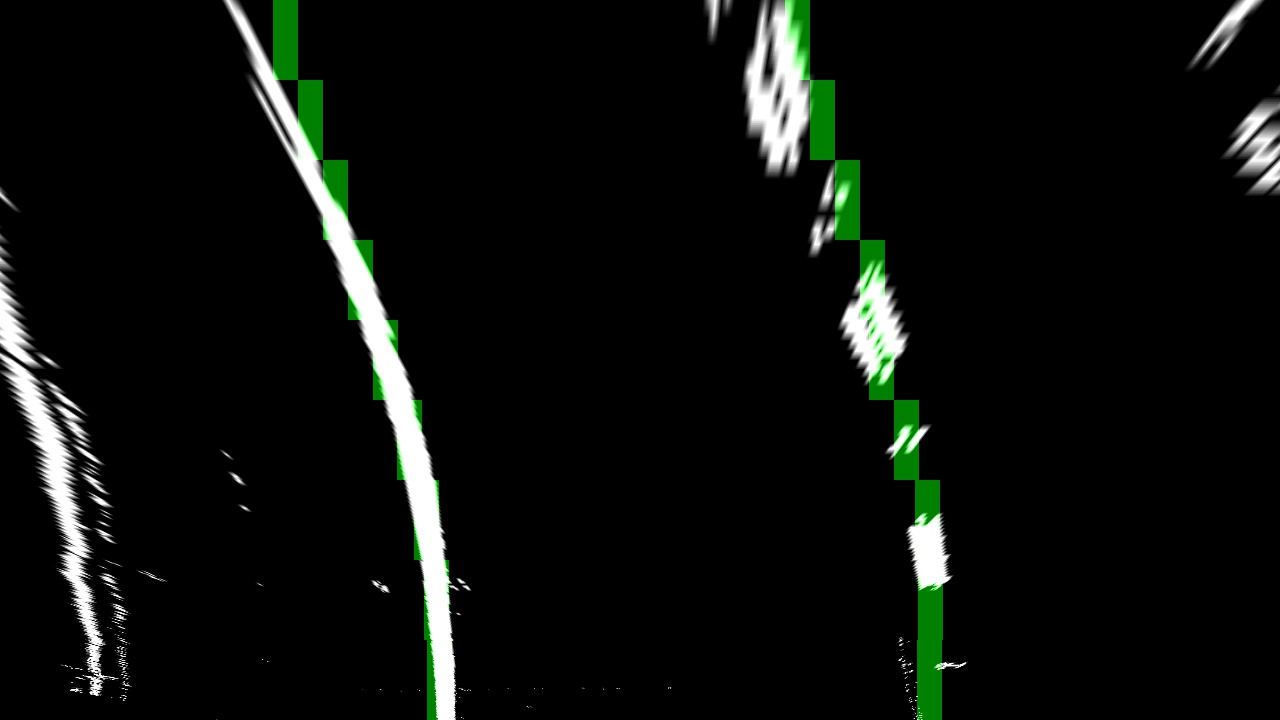
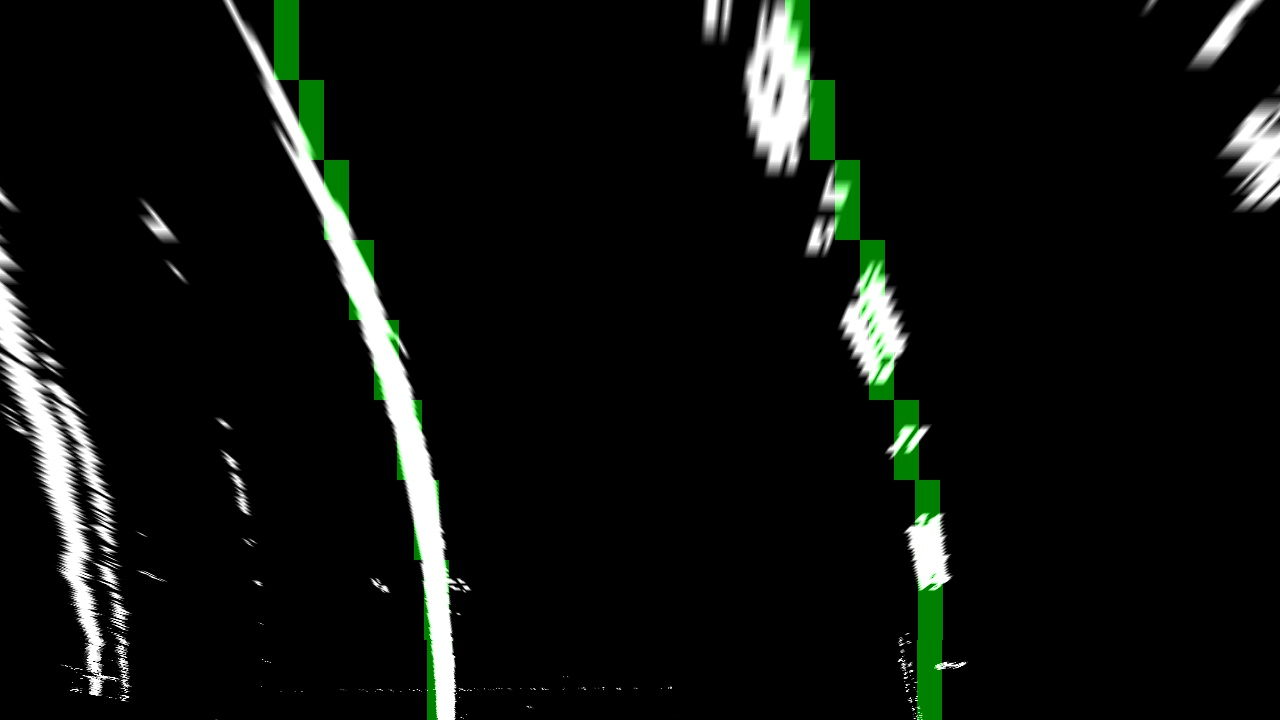
wip

diff --git a/source/thresholds.py b/source/thresholds.py
@@ -54,7 +54,7 @@ def threshold_pipeline(image):
     gradient_y = gradient(image, orient='y', thresholds=(25, 255))
     magnitude = magnitude_of_gradient(image, thresholds=(30, 100))
     direction = direction_of_gradient(image, 15, (0.7, 1.3))
-    color = color_threshold(image, (130, 255), (50, 255))
+    color = color_threshold(image, (140, 255), (50, 255))
     combined_thresholds = numpy.zeros_like(image[:, :, 0])
     gradient_hits = (gradient_x == 1) & (gradient_y == 1)
     # magnitude_direction = (magnitude == 1) & (direction == 1)

diff --git a/source/processor.py b/source/processor.py
@@ -23,5 +23,7 @@ def process_image(image):
     curve_centers = Tracker(window_width, window_height, 25, 10 / 720, 4 / 384)
     window_centroids = curve_centers.find_window_centroids(warped)
     sliding_windows, left_x, right_x = draw_windows(warped, window_centroids, window_width, window_height)
+
     weighted_road = draw_curve(warped, image, left_x, right_x, m_inverse, curve_centers)
-    return weighted_road
+
+    return sliding_windows

diff --git a/source/pipeline.py b/source/pipeline.py
@@ -9,5 +9,5 @@ for index, file in enumerate(files):
     image = cv2.imread(file)
     processed_image = process_image(image)
 
-    correction_result = str(index) + ' with lane lines.jpg'
+    correction_result = str(index) + ' curve.jpg'
     cv2.imwrite('../output_images/' + correction_result, processed_image)
